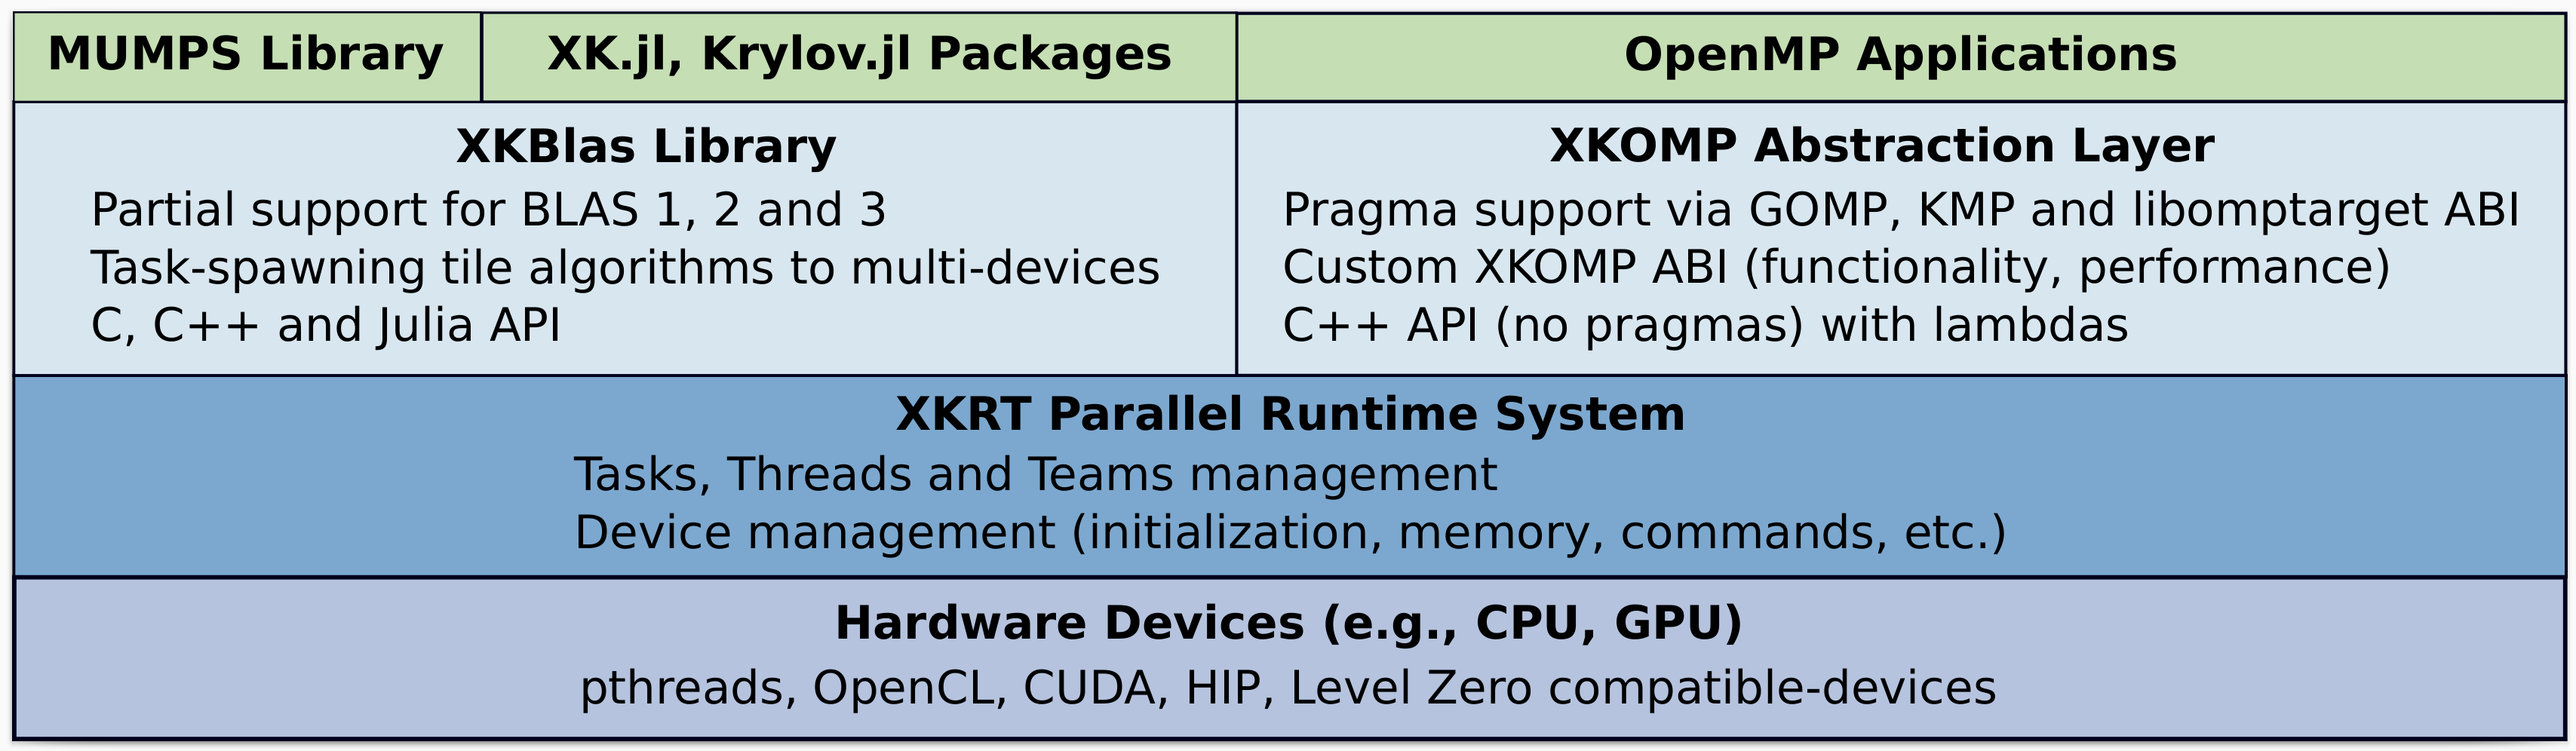
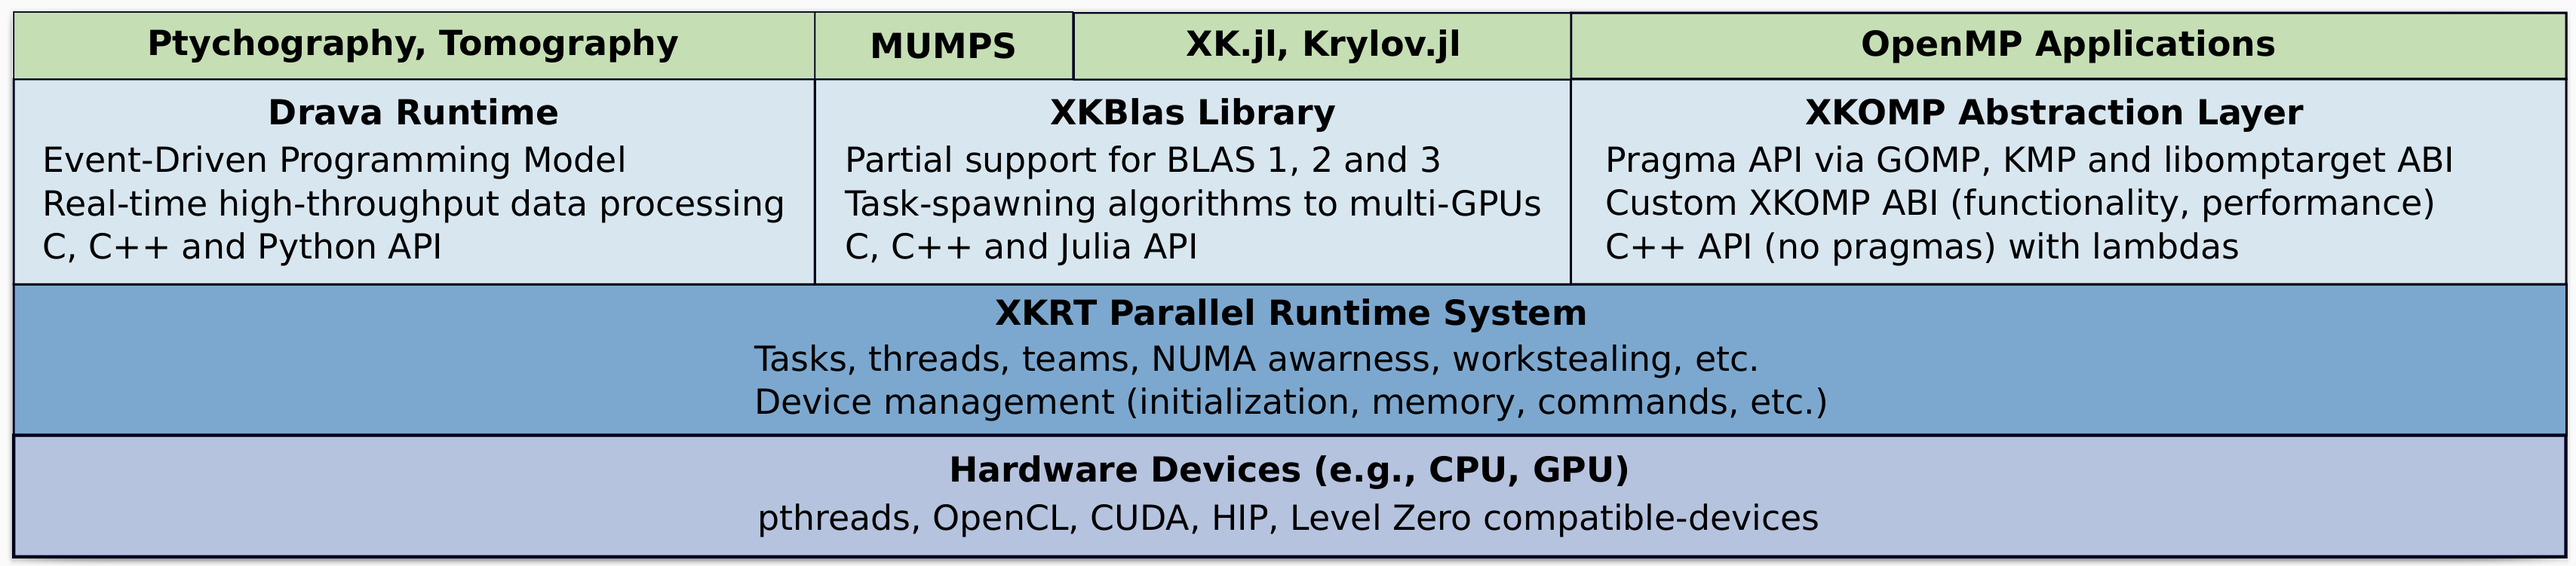
deploy: 9fb92c7fb94f8aab638ce92697e7eb898fd48bca

diff --git a/index.html b/index.html
@@ -103,10 +103,10 @@ XKaapi Runtime (XKRT) - A parallel runtime system for macro-dataflow on multi-de
 Related Projects</h1>
 <p>This repository hosts the XKRT runtime system. <br  />
  Other repository hosts specialization layers built on top of the runtime:</p><ul>
+<li><a href="https://github.com/anlsys/drava">Drava</a> is an event-driven programming model and runtime system, for real-time high-throughput data processing.</li>
+<li><a href="https://github.com/anlsys/XK.jl">XK.jl</a> Julia bindings of XKRT and XKBlas</li>
 <li><a href="https://gitlab.inria.fr/xkblas/dev/-/tree/v2.0">XKBlas</a> is a multi-gpu BLAS implementation that allows the tiling and composition of kernels, with asynchronous overlap of computation/transfers.</li>
 <li><a href="https://github.com/anlsys/xkomp">XKOMP</a> is an experimental OpenMP runtime built on top of XKRT.</li>
-<li><a href="https://github.com/anlsys/XKBlas.jl">XKBlas.jl</a> Julia bindings of XKBlas</li>
-<li><a href="https://github.com/anlsys/xkbm">XKBM</a> is a suite of benchmark for measuring multi-gpu architectures performances, to assist in the design of runtime systems.</li>
 </ul>
 <p><a href="docs/software-stack.pdf"><div class="image">
 <img src="software-stack.png" alt=""/>
